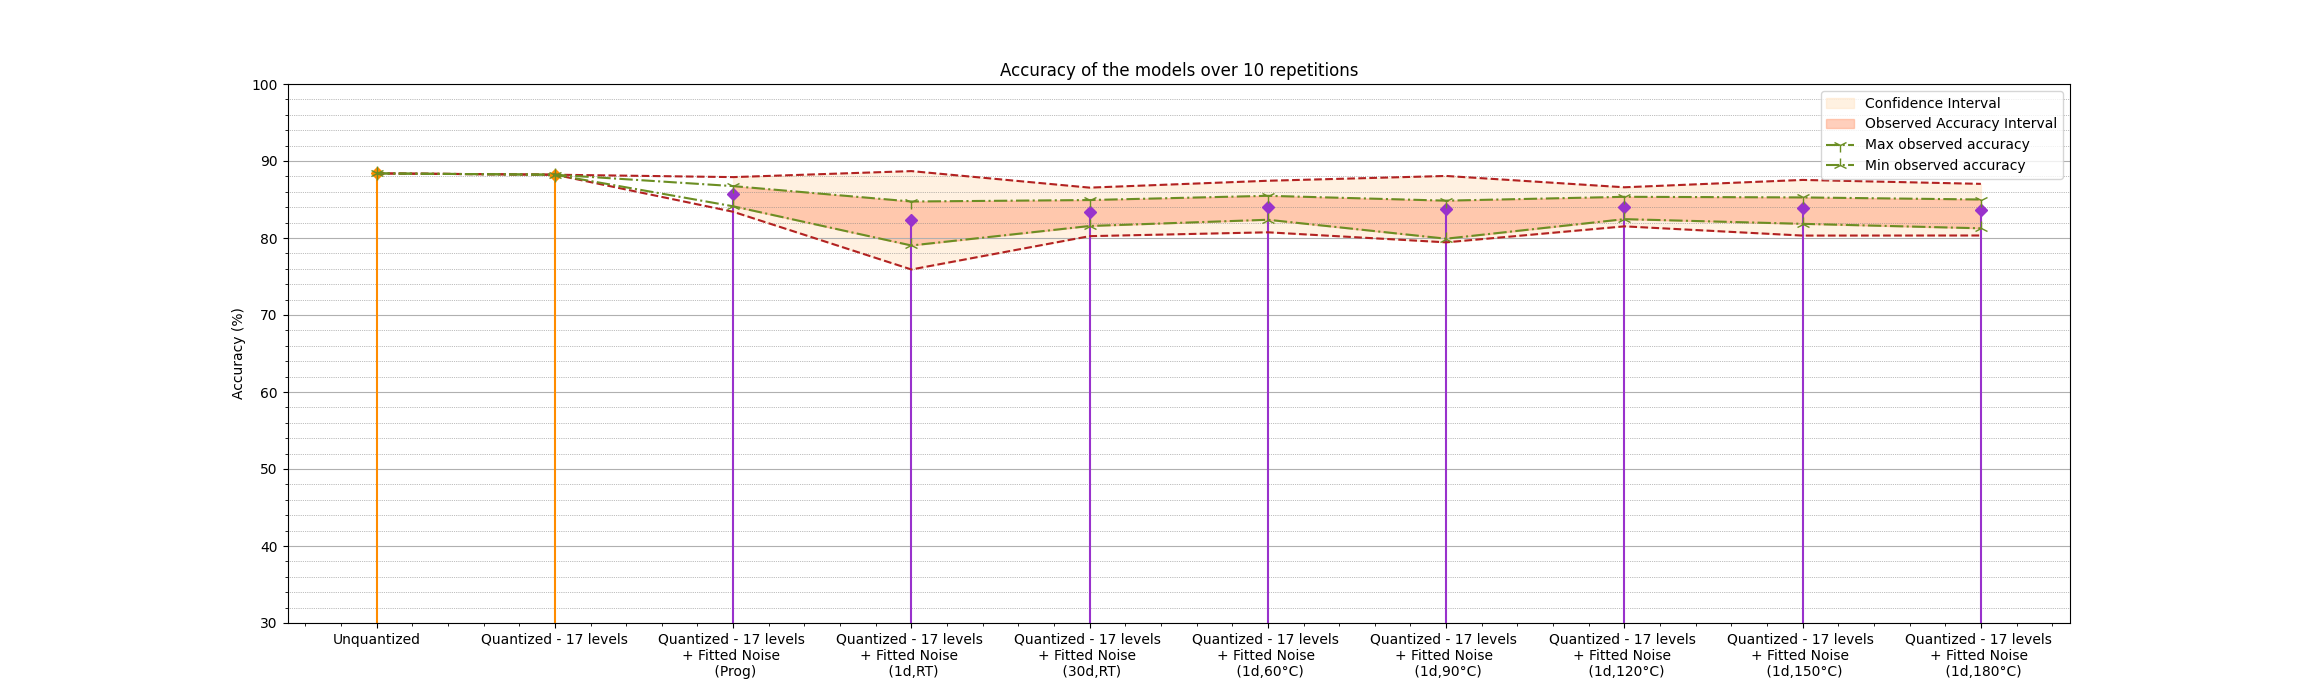
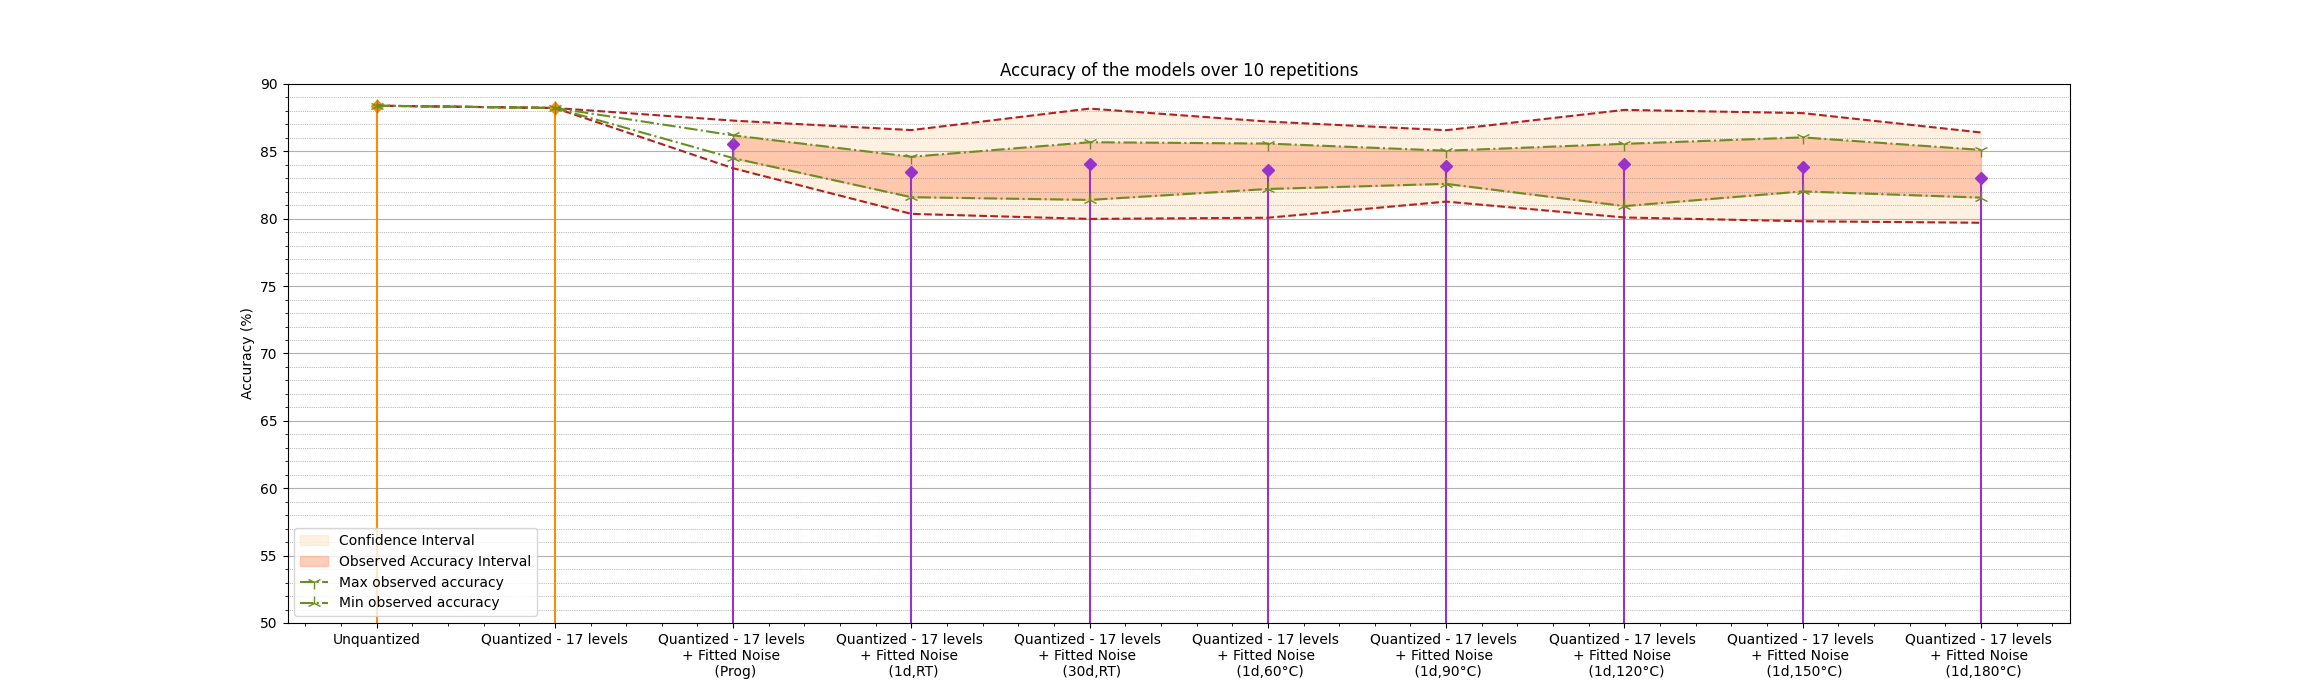
updates for simulation

diff --git a/sandbox/cuda/resnet.py b/sandbox/cuda/resnet.py
@@ -294,31 +294,31 @@ class IdealPreset(InferenceRPUConfig):
         )
     )
 
-    forward: IOParameters = field(
-        default_factory= lambda:PresetIOParameters(
-            is_perfect=True,
-        )
-    )
+    # forward: IOParameters = field(
+    #     default_factory= lambda:PresetIOParameters(
+    #         is_perfect=True,
+    #     )
+    # )
 
     # ////////////////////////////////////////////////////////////////////////////////////////////////
     # OSS: As soon as the resolution for input and output is set to a value different from 0,
     # the input calibration step become mandatory
     # ////////////////////////////////////////////////////////////////////////////////////////////////
     
-    # forward: IOParameters = field(
-    #     default_factory=lambda: PresetIOParameters(
-    #         inp_res=254.0,
-    #         out_res=254.0,
-    #         bound_management=BoundManagementType.NONE,
-    #         noise_management=NoiseManagementType.CONSTANT,
-    #         nm_thres=1.0,
-    #         # w_noise=0.0175,
-    #         w_noise_type=WeightNoiseType.NONE,
-    #         ir_drop=1.0,
-    #         out_noise=0.04,
-    #         out_bound=10.0,
-    #     )
-    # )
+    forward: IOParameters = field(
+        default_factory=lambda: PresetIOParameters(
+            inp_res=0.0,
+            out_res=0.0,
+            bound_management=BoundManagementType.NONE,
+            noise_management=NoiseManagementType.NONE,
+            nm_thres=1.0,
+            # w_noise=0.0175,
+            w_noise_type=WeightNoiseType.NONE,
+            #ir_drop=1.0,
+            #out_noise=0.04,
+            out_bound=10.0,
+        )
+    )
 
     backward: IOParameters = field(
         default_factory= lambda:PresetIOParameters(
